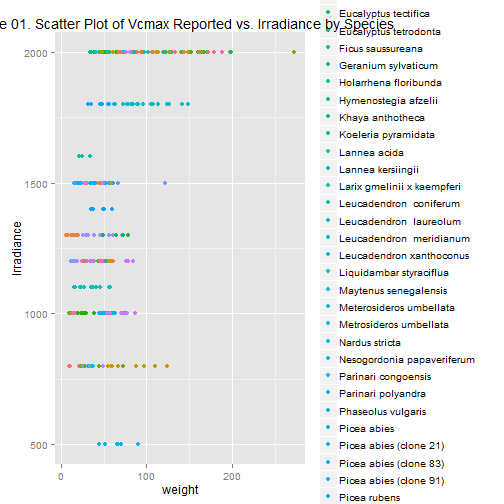
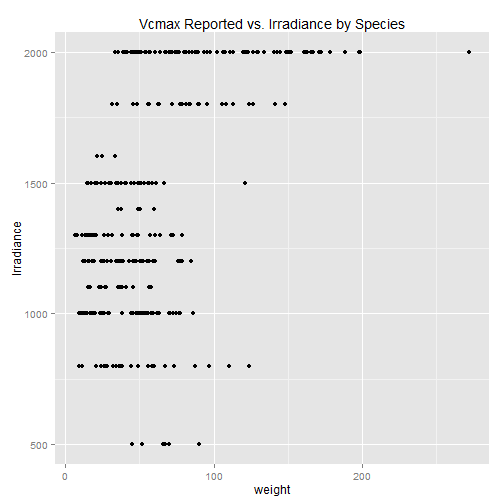
Spellcheckings and config. corrections
Spellcheckings and a little config. corrections

diff --git a/index.html b/index.html
@@ -67,20 +67,15 @@
     <h3>Using the App</h3>
   </hgroup>
   <article data-timings="">
-    <p>It&#39;s very easy! See the app online <a href="https://larrylugo.shinyapps.io/DevDataProdProjectFinal">here</a>. Please choose a data set between <strong>Crops</strong> or <strong>Photosynthesis</strong>. Then on side menu, select the <strong>Dependent</strong> and <strong>Independent Variable</strong>. Go to <strong>Main Menu</strong> (See Fig. 01 below) to analyze the information of your interest.</p>
+    <p>It&#39;s very easy! See the app online <a href="https://larrylugo.shinyapps.io/DevDataProdProjectFinal">here</a>. On Side Menu choose a data set, Dependent and Independent Variable:</br></p>
 
-<p><img src="./assets/img/fig01.png" alt="Fig. 1"></p>
-
-<ul>
-<li>Data. Shows raw data. You can specify how many rows want to see.</li>
-<li>Summary Statistics. Displays dependent and independent variables percentiles.</li>
-<li>Histograms. This tab shows selected variables&#39; histograms. You can decide &quot;Number of bins&quot; to be displayed.</li>
-<li>Scatter Plot. Plot the relationship between variables.</li>
-<li>Correlations. The whole correlation matrix is showed.</li>
-<li>Model. Summarizes the model output.</li>
-<li>Residuals. Plots residuals and Normal Q-Q test output.</li>
-<li>Help: App&#39;s help document.</li>
-</ul>
+<div style='text-align: center;'>
+    <img height='220' width='200' src='./assets/img/fig02.png'/>
+</div></br>
+Then On Main Menu, see output on each corresponding Tab:</br></br>
+<div style='text-align: center;'>
+    <img height='144' width='609' src='./assets/img/fig01.png'/>
+</div>
 
   </article>
   <!-- Presenter Notes -->
@@ -91,14 +86,14 @@
     <h3>A Plotting Example</h3>
   </hgroup>
   <article data-timings="">
-    <pre><code class="r">library(ggplot2)
+    <pre><code class="r">library(car)
+photo &lt;- read.csv(file=&quot;./assets/data/Leaf_Photosynthesis_Traits.csv&quot;, header=TRUE, sep=&quot;,&quot;)
+scatterplot(Vcmax_reported ~ Irradiance, data=photo, 
+   xlab=&quot;Irradiance&quot;, ylab=&quot;Vcmax Reported&quot;, 
+   main=&quot;Vcmax Reported vs. Irradiance&quot;)
 </code></pre>
 
-<pre><code class="r">photo &lt;- read.csv(file=&quot;./assets/data/Leaf_Photosynthesis_Traits.csv&quot;, header=TRUE, sep=&quot;,&quot;)
-ggplot(photo, aes(x=Vcmax_reported, y=Irradiance, group=Species, color=Species, height=3, width=3)) + geom_point() + xlab(&quot;weight&quot;) + ggtitle(&quot;Figure 01. Scatter Plot of Vcmax Reported vs. Irradiance by Species&quot;)
-</code></pre>
-
-<p><img src="assets/fig/unnamed-chunk-2-1.png" alt="plot of chunk unnamed-chunk-2"> </p>
+<p><img src="assets/fig/unnamed-chunk-1-1.png" title="plot of chunk unnamed-chunk-1" alt="plot of chunk unnamed-chunk-1" style="display: block; margin: auto;" /></p>
 
   </article>
   <!-- Presenter Notes -->

diff --git a/index.md b/index.md
@@ -29,18 +29,14 @@ For those reasons, thanks to this application you can:
 ### Using the App
 
 
-It's very easy! See the app online [here](https://larrylugo.shinyapps.io/DevDataProdProjectFinal). Please choose a data set between __Crops__ or __Photosynthesis__. Then on side menu, select the **Dependent** and **Independent Variable**. Go to **Main Menu** (See Fig. 01 below) to analyze the information of your interest.
-
-![Fig. 1](./assets/img/fig01.png)
-
-* Data. Shows raw data. You can specify how many rows want to see.
-* Summary Statistics. Displays dependent and independent variables percentiles.
-* Histograms. This tab shows selected variables' histograms. You can decide "Number of bins" to be displayed.
-* Scatter Plot. Plot the relationship between variables.
-* Correlations. The whole correlation matrix is showed.
-* Model. Summarizes the model output.
-* Residuals. Plots residuals and Normal Q-Q test output.
-* Help: App's help document.
+It's very easy! See the app online [here](https://larrylugo.shinyapps.io/DevDataProdProjectFinal). On Side Menu choose a data set, Dependent and Independent Variable:</br>
+<div style='text-align: center;'>
+    <img height='220' width='200' src='./assets/img/fig02.png'/>
+</div></br>
+Then On Main Menu, see output on each corresponding Tab:</br></br>
+<div style='text-align: center;'>
+    <img height='144' width='609' src='./assets/img/fig01.png'/>
+</div>
 
 ---
 
@@ -48,16 +44,14 @@ It's very easy! See the app online [here](https://larrylugo.shinyapps.io/DevData
 
 
 ```r
-library(ggplot2)
-```
-
-
-```r
+library(car)
 photo <- read.csv(file="./assets/data/Leaf_Photosynthesis_Traits.csv", header=TRUE, sep=",")
-ggplot(photo, aes(x=Vcmax_reported, y=Irradiance, group=Species, color=Species, height=3, width=3)) + geom_point() + xlab("weight") + ggtitle("Figure 01. Scatter Plot of Vcmax Reported vs. Irradiance by Species")
+scatterplot(Vcmax_reported ~ Irradiance, data=photo, 
+   xlab="Irradiance", ylab="Vcmax Reported", 
+   main="Vcmax Reported vs. Irradiance")
 ```
 
-![plot of chunk unnamed-chunk-2](assets/fig/unnamed-chunk-2-1.png) 
+<img src="assets/fig/unnamed-chunk-1-1.png" title="plot of chunk unnamed-chunk-1" alt="plot of chunk unnamed-chunk-1" style="display: block; margin: auto;" />
 
 ---
 
